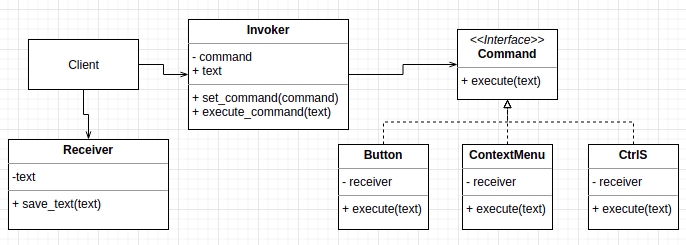
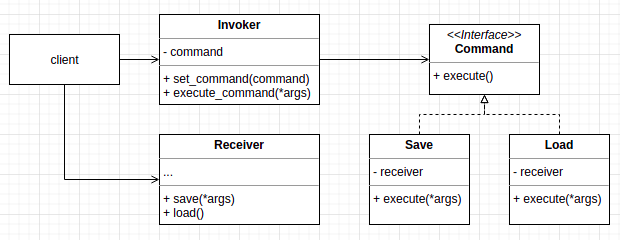
fix command

Changed region(s): [[0.0, 0.0583, 1.0, 0.9625]]

diff --git a/behavioral/command/command.py b/behavioral/command/command.py
@@ -3,32 +3,27 @@ from abc import ABC, abstractmethod
 
 class Command(ABC):
     @abstractmethod
-    def execute(self, text):
+    def execute(self):
         pass
 
 
-class Button(Command):
+class Save(Command):
     def __init__(self, r):
         self._receiver = r
 
-    def execute(self, text):
-        self._receiver.save(text)
+    def execute(self, *args):
+        self._receiver.save(*args)
 
 
-class ContextMenu(Command):
+class Load(Command):
     def __init__(self, r):
-        self._receiver = receiver
+        self._receiver = r
 
-    def execute(self, text):
-        self._receiver.save(text)
-
-
-class CtrlS(Command):
-    def __init__(self, r):
-        self._receiver = receiver
-
-    def execute(self, text):
-        self._receiver.save(text)
+    def execute(self, *args):
+        if args:
+            print('Это команда загрузки. Она не требует параметры')
+        else:
+            self._receiver.load()
 
 
 class Invoker:
@@ -38,32 +33,32 @@ class Invoker:
     def set_command(self, command):
         self._command = command
 
-    def execute_command(self, text):
-        self._command.execute(text)
+    def execute_command(self, *args):
+        self._command.execute(*args)
 
 
 class Receiver:
-    def __init__(self):
-        self.text = None
-
-    def save(self, text):
-        self.text = text
+    def save(self, *args):
+        text = ' '.join(args)
         with open('content.txt', 'a') as f:
-            f.write(self.text + '\n')
+            f.write(text + '\n')
+
+    def load(self):
+        with open('content.txt') as f:
+            text = f.read()
+        print(text)
 
 
 if __name__ == '__main__':
     client = Invoker()
     receiver = Receiver()
-    button = Button(receiver)
-    context_menu = Button(receiver)
-    ctrl_s = Button(receiver)
+    button_save = Save(receiver)
+    button_load = Load(receiver)
 
-    client.set_command(button)
-    client.execute_command('Hello')
+    client.set_command(button_save)
+    client.execute_command('Hello', 'world')
 
-    client.set_command(context_menu)
-    client.execute_command('world')
+    client.set_command(button_load)
+    client.execute_command()
 
-    client.set_command(ctrl_s)
-    client.execute_command('!!!')
+    client.execute_command('!')
